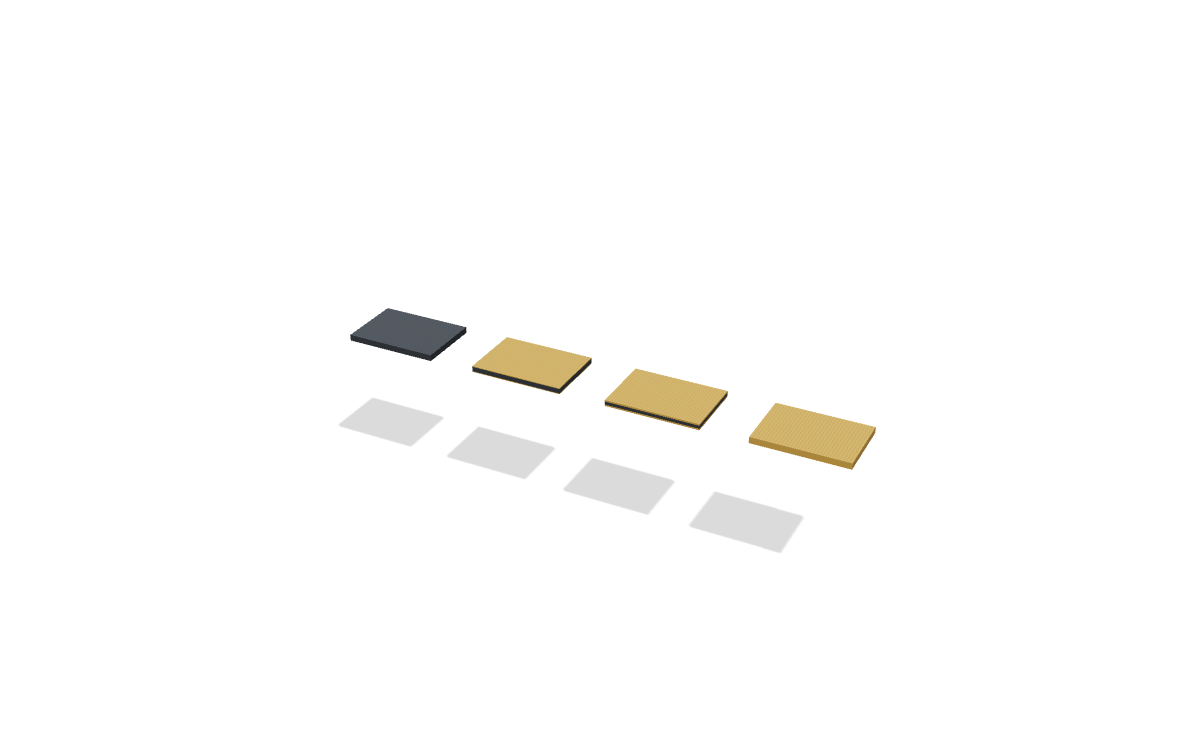
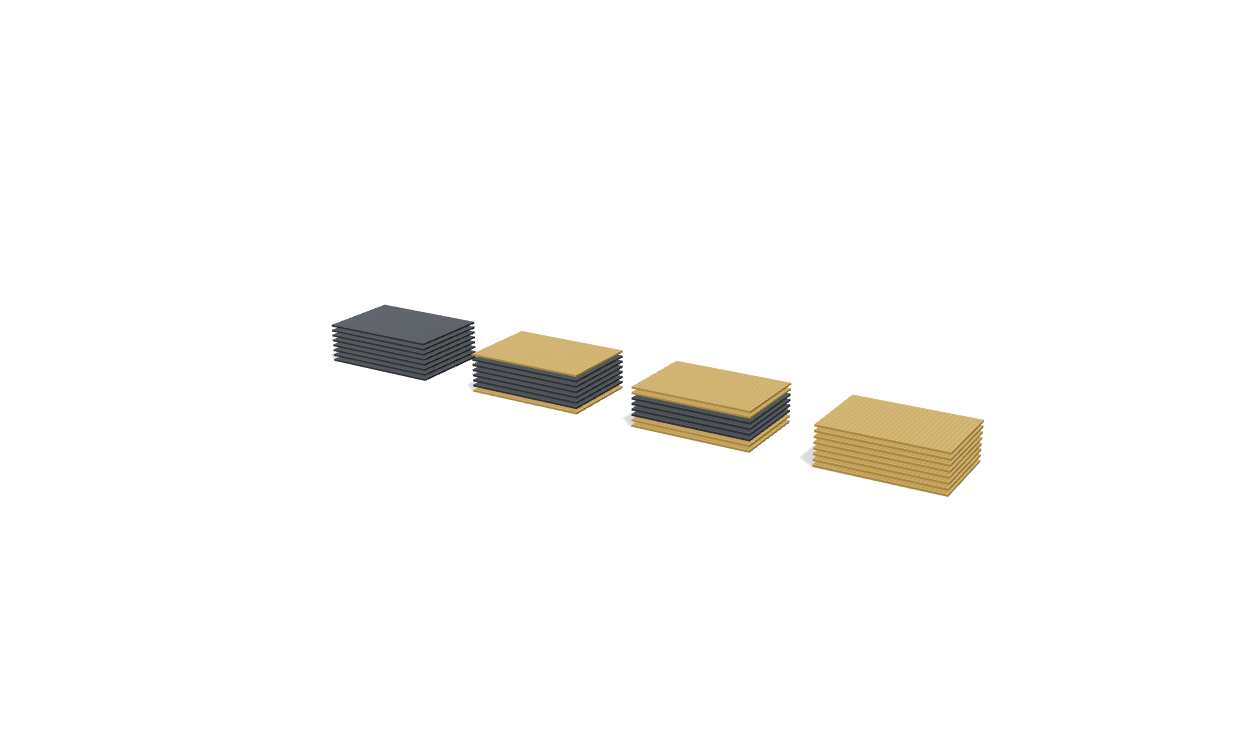
Fan the laminate stacks open so the carbon core is visible at a glance

Changed region(s): [[0.2475, 0.3955, 0.8043, 0.7302]]

diff --git a/dist/artifact.html b/dist/artifact.html
@@ -195,7 +195,7 @@ input[type=range]::-moz-range-thumb { width: 12px; height: 12px; border-radius: 
     </div>
     <div class="hero-3d">
       <div class="stage" id="stackStage"></div>
-      <div class="stage-hint">Drag to orbit · hover a ply</div>
+      <div class="stage-hint">Plies fanned open so the carbon core shows · drag to orbit · hover a ply · click a card below to open one stack</div>
     </div>
   </section>
 
@@ -627,15 +627,15 @@ class Stage {
 // ---------- laminate stacks ----------
 function buildStacks(stage, materials) {
   const group = new THREE.Group(); stage.scene.add(group);
-  const L = 60, W = 42, t = 0.5, gap = 90; const stacks = [];
+  const L = 60, W = 42, t = 0.9, gap = 90; const stacks = [];
   materials.forEach((m, i) => {
     const g = new THREE.Group(); g.position.x = (i - (materials.length - 1) / 2) * gap; group.add(g);
     const plies = m.layup.map((k, j) => { const p = plyMesh(k, L, t, W); p.position.y = j * t; g.add(p); stage.pickable(p, { name: `Ply ${j + 1} of 8 · ${PLY[k].name}`, desc: `${m.name}. ${k === 'C' ? 'Woven carbon fabric, twill.' : 'Woven basalt fabric, plain weave.'}`, mat: m.id }); return p; });
     g.add(stage.label(m.name, new THREE.Vector3(0, -8, W / 2 + 6), 'lbl3d caption'));
-    stacks.push({ g, plies, explode: 0, target: 0, mat: m });
+    stacks.push({ g, plies, explode: 0.55, target: 0.55, mat: m });
   });
-  stage.onFrame(dt => { for (const s of stacks) { s.explode += (s.target - s.explode) * Math.min(1, dt * 6); s.plies.forEach((p, j) => { p.position.y = j * t + j * 2.2 * s.explode; }); } });
-  stage.fit(new THREE.Vector3(0, 6, 0), 150, [0.55, 0.65, 1], -1);
+  stage.onFrame(dt => { for (const s of stacks) { s.explode += (s.target - s.explode) * Math.min(1, dt * 6); s.plies.forEach((p, j) => { p.position.y = j * t + j * 3.2 * s.explode; }); } });
+  stage.fit(new THREE.Vector3(0, 14, 0), 118, [0.6, 0.42, 1], -1);
   return { group, stacks, setExplode(id, v) { for (const s of stacks) s.target = (id === 'all' || s.mat.id === id) ? v : (id === 'all' ? v : 0); } };
 }
 
@@ -769,7 +769,7 @@ MATERIALS.forEach(m => {
     <div class="stack">${m.layup.slice().reverse().map(k => `<i class="${k}"></i>`).join('')}</div>
     <div class="kv"><span>Layup</span><span class="mono">${layupNotation(m)}</span><span>Basalt share</span><span class="mono">${Math.round(m.basalt * 100)}%</span><span>Flexural modulus</span><span class="mono">${fmt(meanFlex(m.id, 0, 'E'), 1)} GPa</span><span>Flexural strength</span><span class="mono">${fmt(meanFlex(m.id, 0, 'sigma'))} MPa</span><span>ILSS</span><span class="mono">${fmt(meanIlss(m.id, 0), 1)} MPa</span></div>
     <p>${m.blurb}</p>`;
-  c.addEventListener('click', () => { exploded = exploded === m.id ? null : m.id; cards.querySelectorAll('.card').forEach(x => x.classList.toggle('on', x.dataset.id === exploded)); stacks.stacks.forEach(s => { s.target = s.mat.id === exploded ? 1 : 0; }); stackStage.controls.autoRotate = false; });
+  c.addEventListener('click', () => { exploded = exploded === m.id ? null : m.id; cards.querySelectorAll('.card').forEach(x => x.classList.toggle('on', x.dataset.id === exploded)); stacks.stacks.forEach(s => { s.target = s.mat.id === exploded ? 1.1 : (exploded ? 0.15 : 0.55); }); stackStage.controls.autoRotate = false; });
   cards.appendChild(c);
 });
 

diff --git a/dist/index.html b/dist/index.html
@@ -201,7 +201,7 @@ input[type=range]::-moz-range-thumb { width: 12px; height: 12px; border-radius: 
     </div>
     <div class="hero-3d">
       <div class="stage" id="stackStage"></div>
-      <div class="stage-hint">Drag to orbit · hover a ply</div>
+      <div class="stage-hint">Plies fanned open so the carbon core shows · drag to orbit · hover a ply · click a card below to open one stack</div>
     </div>
   </section>
 
@@ -633,15 +633,15 @@ class Stage {
 // ---------- laminate stacks ----------
 function buildStacks(stage, materials) {
   const group = new THREE.Group(); stage.scene.add(group);
-  const L = 60, W = 42, t = 0.5, gap = 90; const stacks = [];
+  const L = 60, W = 42, t = 0.9, gap = 90; const stacks = [];
   materials.forEach((m, i) => {
     const g = new THREE.Group(); g.position.x = (i - (materials.length - 1) / 2) * gap; group.add(g);
     const plies = m.layup.map((k, j) => { const p = plyMesh(k, L, t, W); p.position.y = j * t; g.add(p); stage.pickable(p, { name: `Ply ${j + 1} of 8 · ${PLY[k].name}`, desc: `${m.name}. ${k === 'C' ? 'Woven carbon fabric, twill.' : 'Woven basalt fabric, plain weave.'}`, mat: m.id }); return p; });
     g.add(stage.label(m.name, new THREE.Vector3(0, -8, W / 2 + 6), 'lbl3d caption'));
-    stacks.push({ g, plies, explode: 0, target: 0, mat: m });
+    stacks.push({ g, plies, explode: 0.55, target: 0.55, mat: m });
   });
-  stage.onFrame(dt => { for (const s of stacks) { s.explode += (s.target - s.explode) * Math.min(1, dt * 6); s.plies.forEach((p, j) => { p.position.y = j * t + j * 2.2 * s.explode; }); } });
-  stage.fit(new THREE.Vector3(0, 6, 0), 150, [0.55, 0.65, 1], -1);
+  stage.onFrame(dt => { for (const s of stacks) { s.explode += (s.target - s.explode) * Math.min(1, dt * 6); s.plies.forEach((p, j) => { p.position.y = j * t + j * 3.2 * s.explode; }); } });
+  stage.fit(new THREE.Vector3(0, 14, 0), 118, [0.6, 0.42, 1], -1);
   return { group, stacks, setExplode(id, v) { for (const s of stacks) s.target = (id === 'all' || s.mat.id === id) ? v : (id === 'all' ? v : 0); } };
 }
 
@@ -775,7 +775,7 @@ MATERIALS.forEach(m => {
     <div class="stack">${m.layup.slice().reverse().map(k => `<i class="${k}"></i>`).join('')}</div>
     <div class="kv"><span>Layup</span><span class="mono">${layupNotation(m)}</span><span>Basalt share</span><span class="mono">${Math.round(m.basalt * 100)}%</span><span>Flexural modulus</span><span class="mono">${fmt(meanFlex(m.id, 0, 'E'), 1)} GPa</span><span>Flexural strength</span><span class="mono">${fmt(meanFlex(m.id, 0, 'sigma'))} MPa</span><span>ILSS</span><span class="mono">${fmt(meanIlss(m.id, 0), 1)} MPa</span></div>
     <p>${m.blurb}</p>`;
-  c.addEventListener('click', () => { exploded = exploded === m.id ? null : m.id; cards.querySelectorAll('.card').forEach(x => x.classList.toggle('on', x.dataset.id === exploded)); stacks.stacks.forEach(s => { s.target = s.mat.id === exploded ? 1 : 0; }); stackStage.controls.autoRotate = false; });
+  c.addEventListener('click', () => { exploded = exploded === m.id ? null : m.id; cards.querySelectorAll('.card').forEach(x => x.classList.toggle('on', x.dataset.id === exploded)); stacks.stacks.forEach(s => { s.target = s.mat.id === exploded ? 1.1 : (exploded ? 0.15 : 0.55); }); stackStage.controls.autoRotate = false; });
   cards.appendChild(c);
 });
 

diff --git a/src/lab3d.js b/src/lab3d.js
@@ -86,15 +86,15 @@ export class Stage {
 // ---------- laminate stacks ----------
 export function buildStacks(stage, materials) {
   const group = new THREE.Group(); stage.scene.add(group);
-  const L = 60, W = 42, t = 0.5, gap = 90; const stacks = [];
+  const L = 60, W = 42, t = 0.9, gap = 90; const stacks = [];
   materials.forEach((m, i) => {
     const g = new THREE.Group(); g.position.x = (i - (materials.length - 1) / 2) * gap; group.add(g);
     const plies = m.layup.map((k, j) => { const p = plyMesh(k, L, t, W); p.position.y = j * t; g.add(p); stage.pickable(p, { name: `Ply ${j + 1} of 8 · ${PLY[k].name}`, desc: `${m.name}. ${k === 'C' ? 'Woven carbon fabric, twill.' : 'Woven basalt fabric, plain weave.'}`, mat: m.id }); return p; });
     g.add(stage.label(m.name, new THREE.Vector3(0, -8, W / 2 + 6), 'lbl3d caption'));
-    stacks.push({ g, plies, explode: 0, target: 0, mat: m });
+    stacks.push({ g, plies, explode: 0.55, target: 0.55, mat: m });
   });
-  stage.onFrame(dt => { for (const s of stacks) { s.explode += (s.target - s.explode) * Math.min(1, dt * 6); s.plies.forEach((p, j) => { p.position.y = j * t + j * 2.2 * s.explode; }); } });
-  stage.fit(new THREE.Vector3(0, 6, 0), 150, [0.55, 0.65, 1], -1);
+  stage.onFrame(dt => { for (const s of stacks) { s.explode += (s.target - s.explode) * Math.min(1, dt * 6); s.plies.forEach((p, j) => { p.position.y = j * t + j * 3.2 * s.explode; }); } });
+  stage.fit(new THREE.Vector3(0, 14, 0), 118, [0.6, 0.42, 1], -1);
   return { group, stacks, setExplode(id, v) { for (const s of stacks) s.target = (id === 'all' || s.mat.id === id) ? v : (id === 'all' ? v : 0); } };
 }
 

diff --git a/src/main.js b/src/main.js
@@ -37,7 +37,7 @@ MATERIALS.forEach(m => {
     <div class="stack">${m.layup.slice().reverse().map(k => `<i class="${k}"></i>`).join('')}</div>
     <div class="kv"><span>Layup</span><span class="mono">${layupNotation(m)}</span><span>Basalt share</span><span class="mono">${Math.round(m.basalt * 100)}%</span><span>Flexural modulus</span><span class="mono">${fmt(meanFlex(m.id, 0, 'E'), 1)} GPa</span><span>Flexural strength</span><span class="mono">${fmt(meanFlex(m.id, 0, 'sigma'))} MPa</span><span>ILSS</span><span class="mono">${fmt(meanIlss(m.id, 0), 1)} MPa</span></div>
     <p>${m.blurb}</p>`;
-  c.addEventListener('click', () => { exploded = exploded === m.id ? null : m.id; cards.querySelectorAll('.card').forEach(x => x.classList.toggle('on', x.dataset.id === exploded)); stacks.stacks.forEach(s => { s.target = s.mat.id === exploded ? 1 : 0; }); stackStage.controls.autoRotate = false; });
+  c.addEventListener('click', () => { exploded = exploded === m.id ? null : m.id; cards.querySelectorAll('.card').forEach(x => x.classList.toggle('on', x.dataset.id === exploded)); stacks.stacks.forEach(s => { s.target = s.mat.id === exploded ? 1.1 : (exploded ? 0.15 : 0.55); }); stackStage.controls.autoRotate = false; });
   cards.appendChild(c);
 });
 

diff --git a/index.html b/index.html
@@ -29,7 +29,7 @@
     </div>
     <div class="hero-3d">
       <div class="stage" id="stackStage"></div>
-      <div class="stage-hint">Drag to orbit · hover a ply</div>
+      <div class="stage-hint">Plies fanned open so the carbon core shows · drag to orbit · hover a ply · click a card below to open one stack</div>
     </div>
   </section>
 
